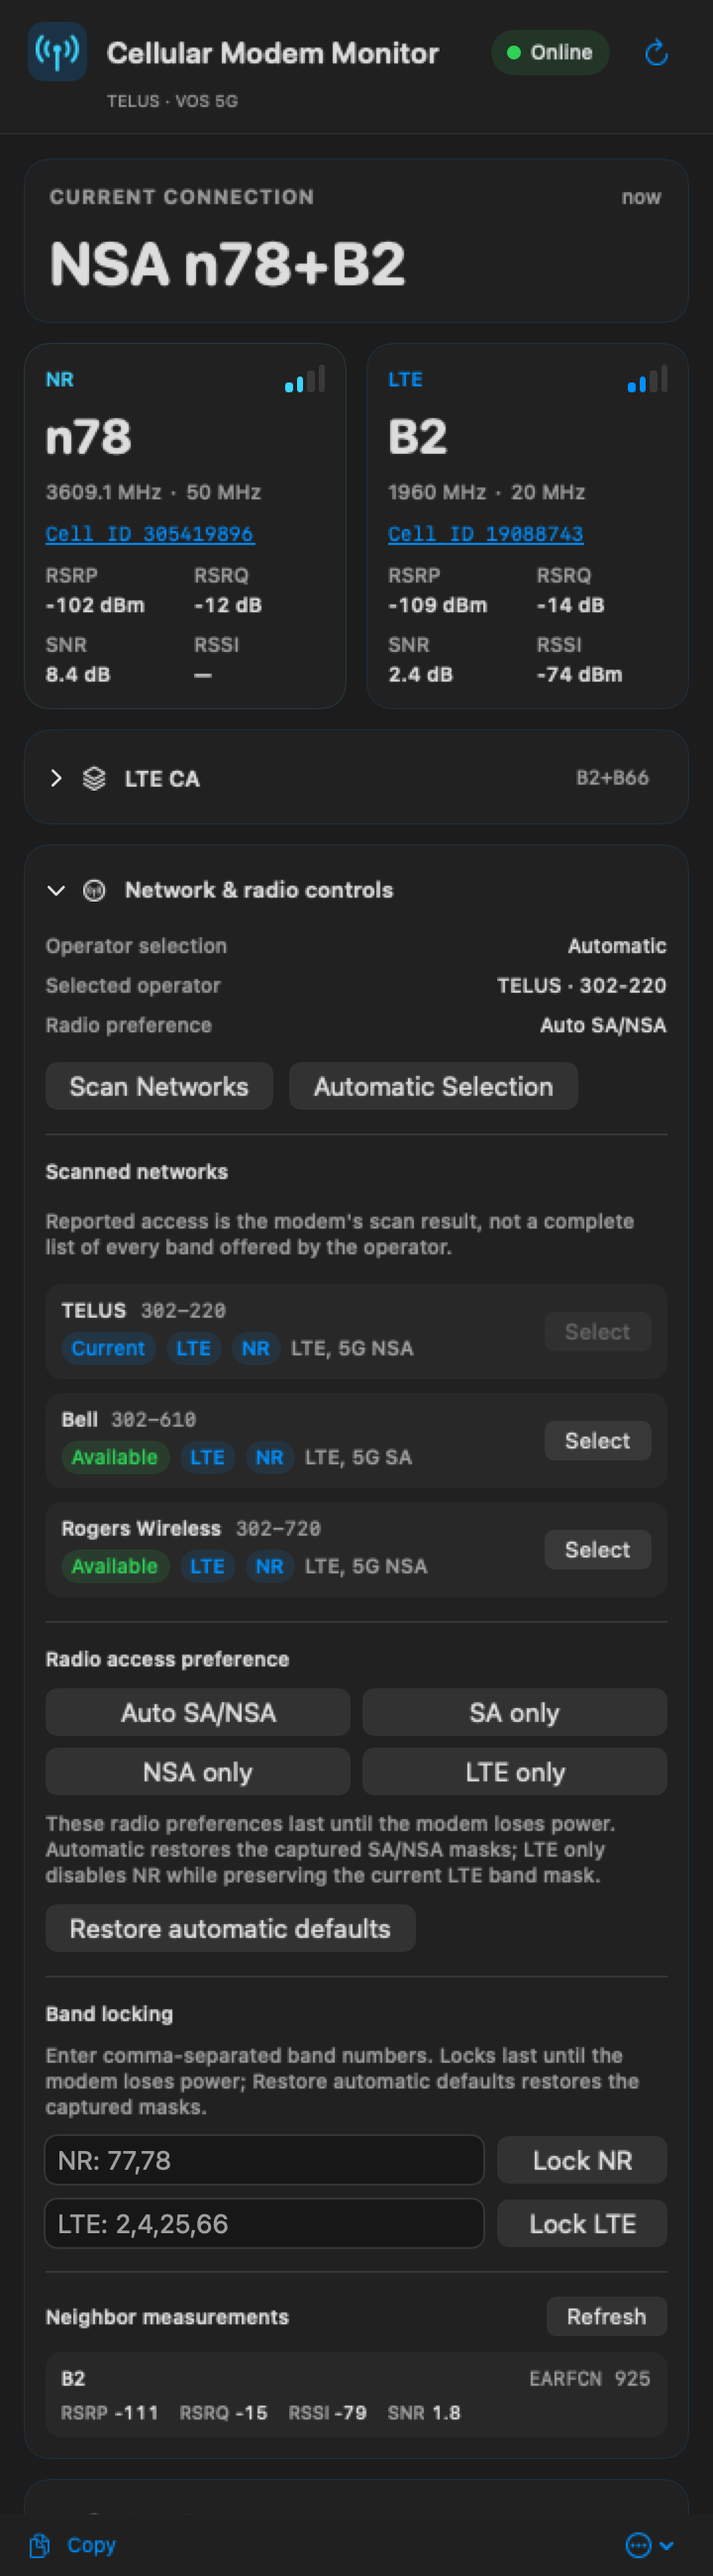
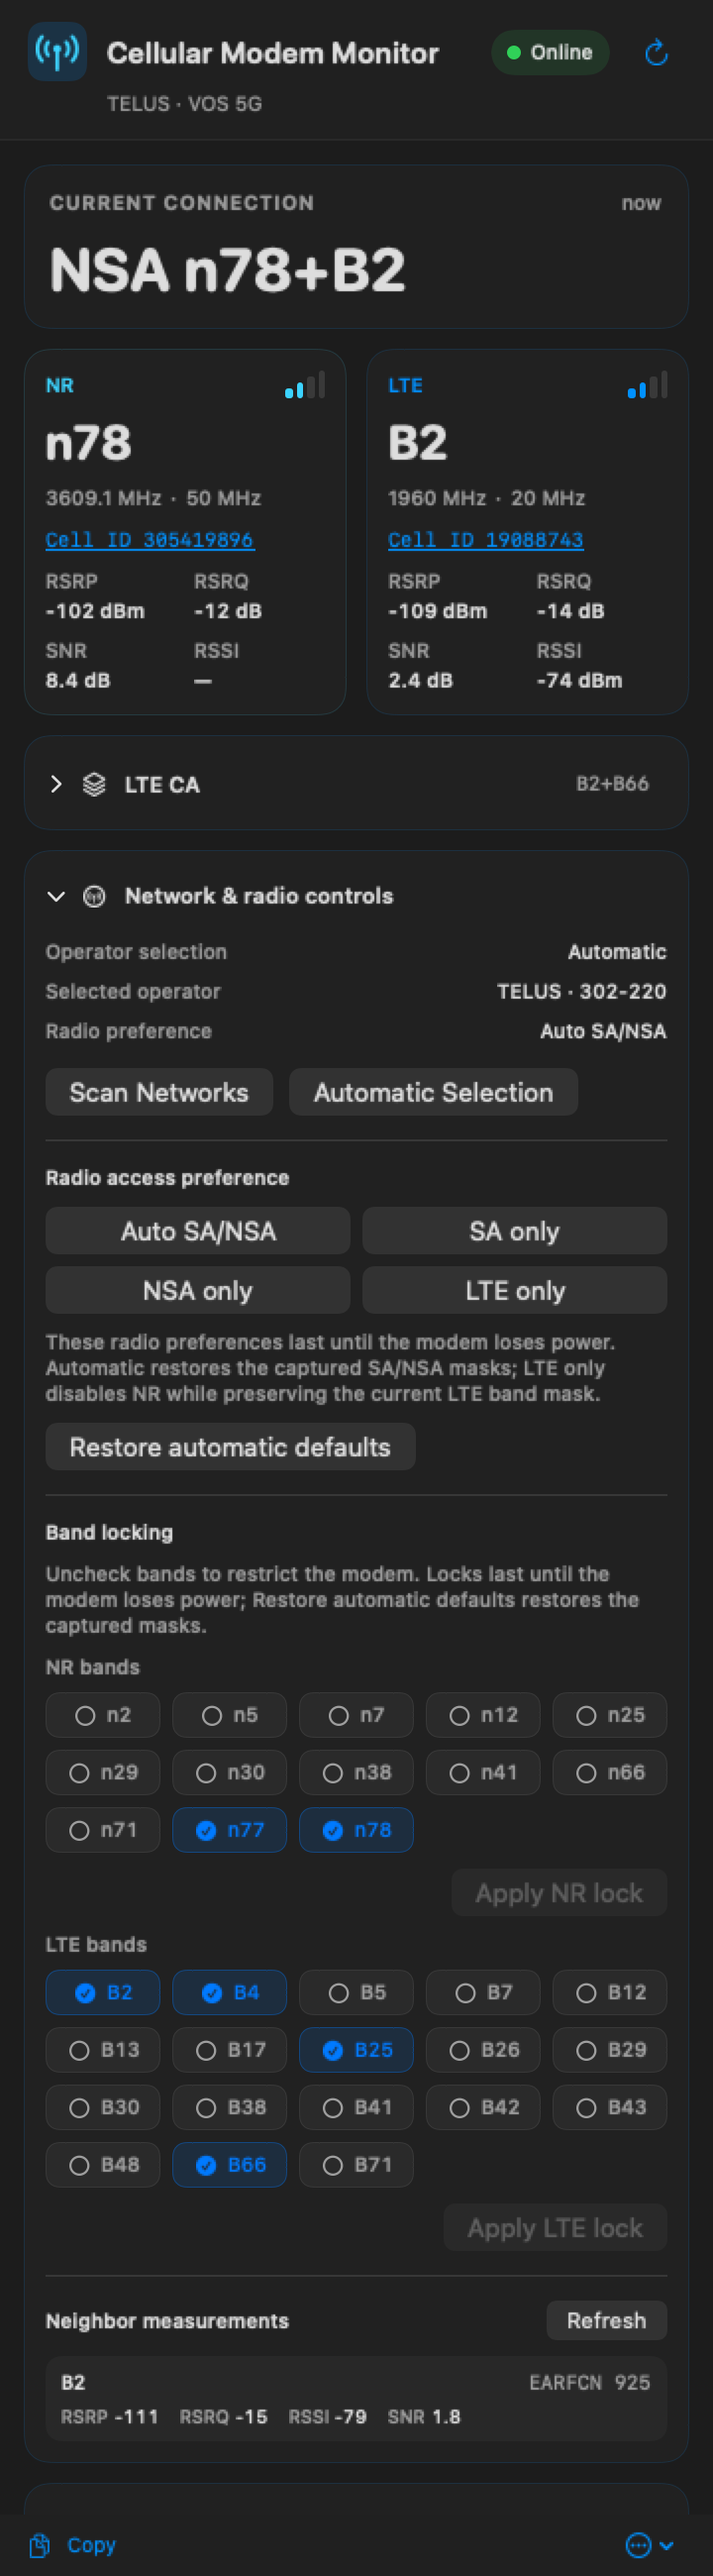
Improve README screenshot layout

diff --git a/scripts/ReadmeScreenshotGenerator.swift b/scripts/ReadmeScreenshotGenerator.swift
@@ -19,6 +19,15 @@ enum ReadmeScreenshotGenerator {
 
         let model = StatusModel(defaults: defaults)
         model.language = .english
+        if showsControls, let controlState = model.controlState {
+            // Keep the long-form screenshot focused on the controls themselves.
+            // Network scan results have their own dynamic height and made the
+            // README preview needlessly tall without demonstrating another
+            // control capability.
+            model.applyControlResult(
+                ModemControlResult(state: controlState, scannedNetworks: [])
+            )
+        }
         let updater = SoftwareUpdater()
         let content = StatusPanel(
             initiallyShowNetworkControls: showsControls,

diff --git a/README.md b/README.md
@@ -11,10 +11,9 @@ opened **Network & radio controls** panel provides verified controls through
 either the VOS SSH/QMI backend or the ZTE authenticated Web UBus backend.
 
 <p align="center">
-  <img src="assets/cellular-modem-monitor-sa-n78.png" width="340" alt="Cellular Modem Monitor showing a 5G SA n78 connection">
-  <img src="assets/cellular-modem-monitor-nsa-n78-b2.png" width="340" alt="Cellular Modem Monitor showing a 5G NSA n78 and LTE B2 connection">
+  <img src="assets/cellular-modem-monitor-sa-n78.png" width="360" alt="Cellular Modem Monitor showing a 5G SA n78 connection">
   <br>
-  <sub>Current SA overview and NSA radio-controls layouts; demo values use synthetic Cell IDs.</sub>
+  <sub>Live SA status at a glance; demo values use synthetic Cell IDs.</sub>
 </p>
 
 ## Features
@@ -50,6 +49,17 @@ either the VOS SSH/QMI backend or the ZTE authenticated Web UBus backend.
 - A backend-specific restore operation with final read-back verification
 - Physical-device identity verification before every write
 - Read-only LTE neighbor measurements when the active backend reports them
+
+<details>
+<summary><strong>Network and radio controls preview</strong></summary>
+
+<p align="center">
+  <img src="assets/cellular-modem-monitor-nsa-n78-b2.png" width="360" alt="Cellular Modem Monitor showing verified network, radio-mode and band controls">
+  <br>
+  <sub>Readback-driven controls in dark mode; demo values use synthetic Cell IDs.</sub>
+</p>
+
+</details>
 
 Controls are routed through the currently active backend rather than directly
 to a particular transport. VOS preferences last until power loss. MC7530CA

diff --git a/README.zh-CN.md b/README.zh-CN.md
@@ -9,10 +9,9 @@
 可通过 VOS SSH/QMI 后端或 ZTE 认证 Web UBus 后端执行带验证的控制。
 
 <p align="center">
-  <img src="assets/cellular-modem-monitor-sa-n78.png" width="340" alt="Cellular Modem Monitor 显示 5G SA n78 连接">
-  <img src="assets/cellular-modem-monitor-nsa-n78-b2.png" width="340" alt="Cellular Modem Monitor 显示 5G NSA n78 与 LTE B2 连接">
+  <img src="assets/cellular-modem-monitor-sa-n78.png" width="360" alt="Cellular Modem Monitor 显示 5G SA n78 连接">
   <br>
-  <sub>当前 SA 概览与 NSA 无线控制界面；图中使用虚构 Cell ID。</sub>
+  <sub>SA 实时状态一览；图中使用虚构 Cell ID。</sub>
 </p>
 
 ## 功能
@@ -43,6 +42,17 @@
 - 后端专属的恢复操作及最终读回验证
 - 每次写入前验证物理设备身份
 - 在当前后端明确支持时读取 LTE 邻区测量
+
+<details>
+<summary><strong>网络与无线控制界面预览</strong></summary>
+
+<p align="center">
+  <img src="assets/cellular-modem-monitor-nsa-n78-b2.png" width="360" alt="Cellular Modem Monitor 显示带验证的选网、无线模式与频段控制">
+  <br>
+  <sub>深色模式下由设备读回驱动的控制界面；图中使用虚构 Cell ID。</sub>
+</p>
+
+</details>
 
 控制始终交给当前活动后端，不会由界面直接调用某种传输。VOS 偏好持续到断电；
 MC7530CA 偏好会持久保存，直到再次修改或恢复。界面只显示当前后端声明的能力。
